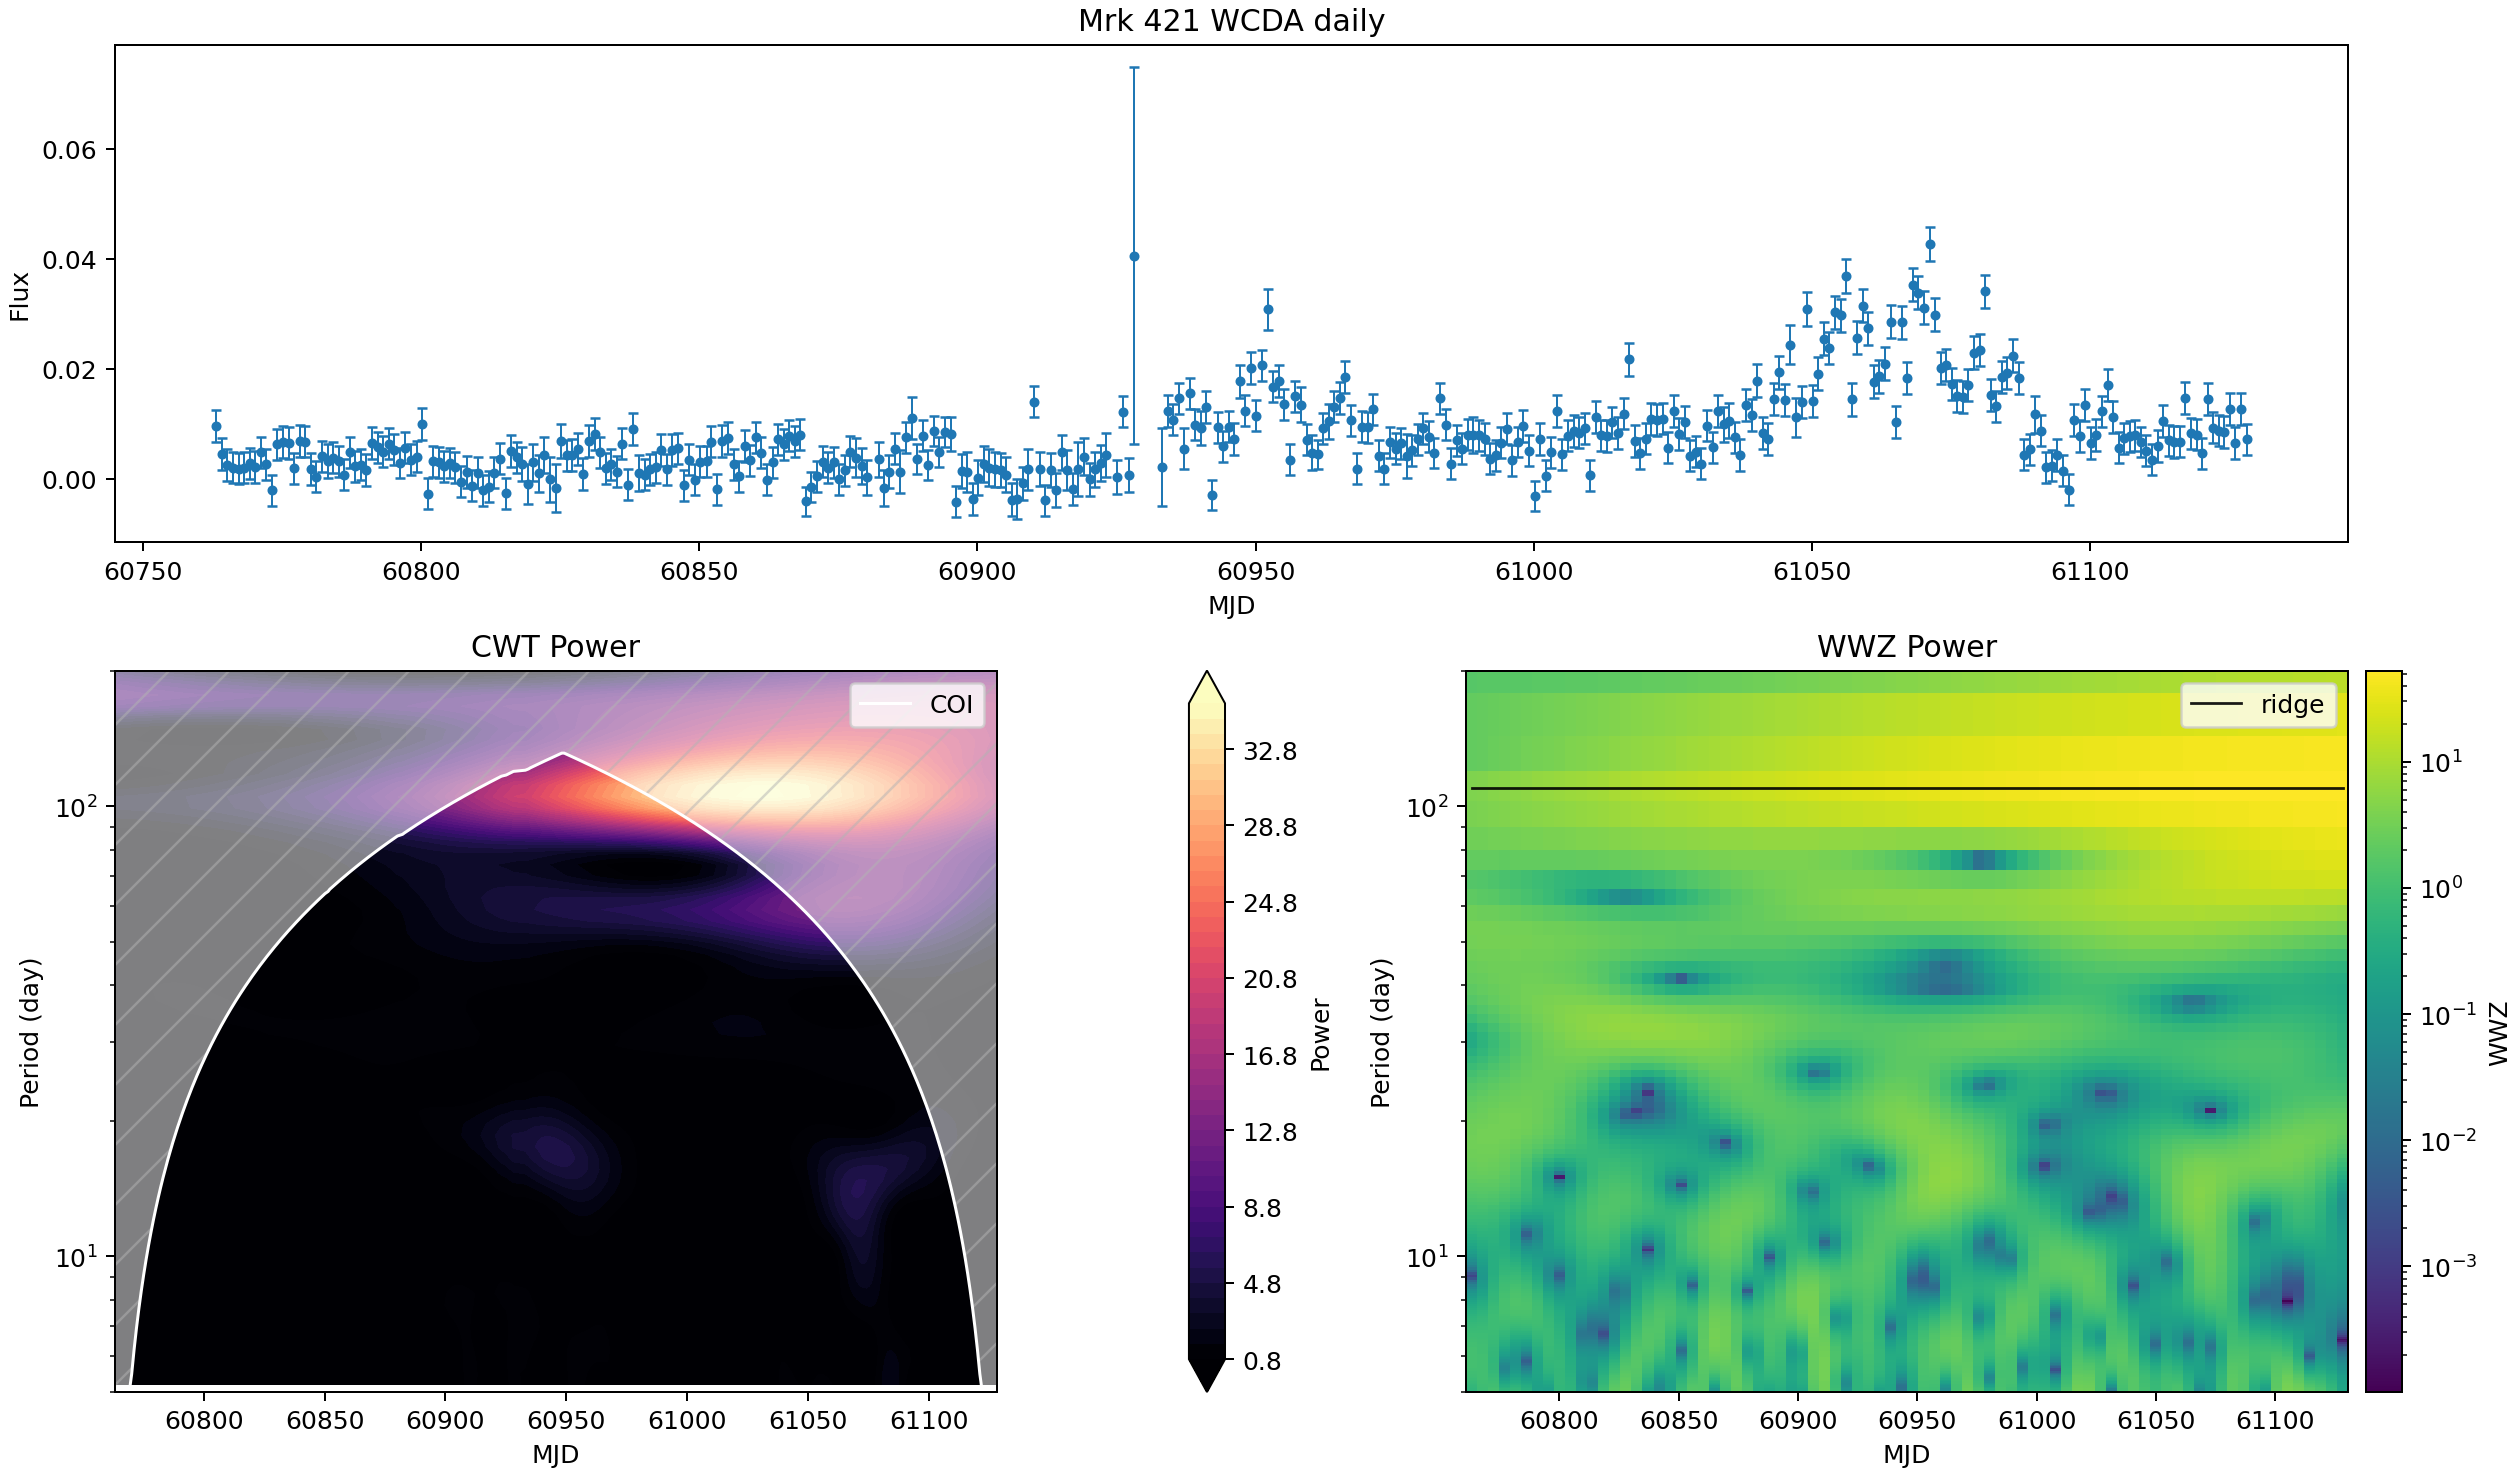
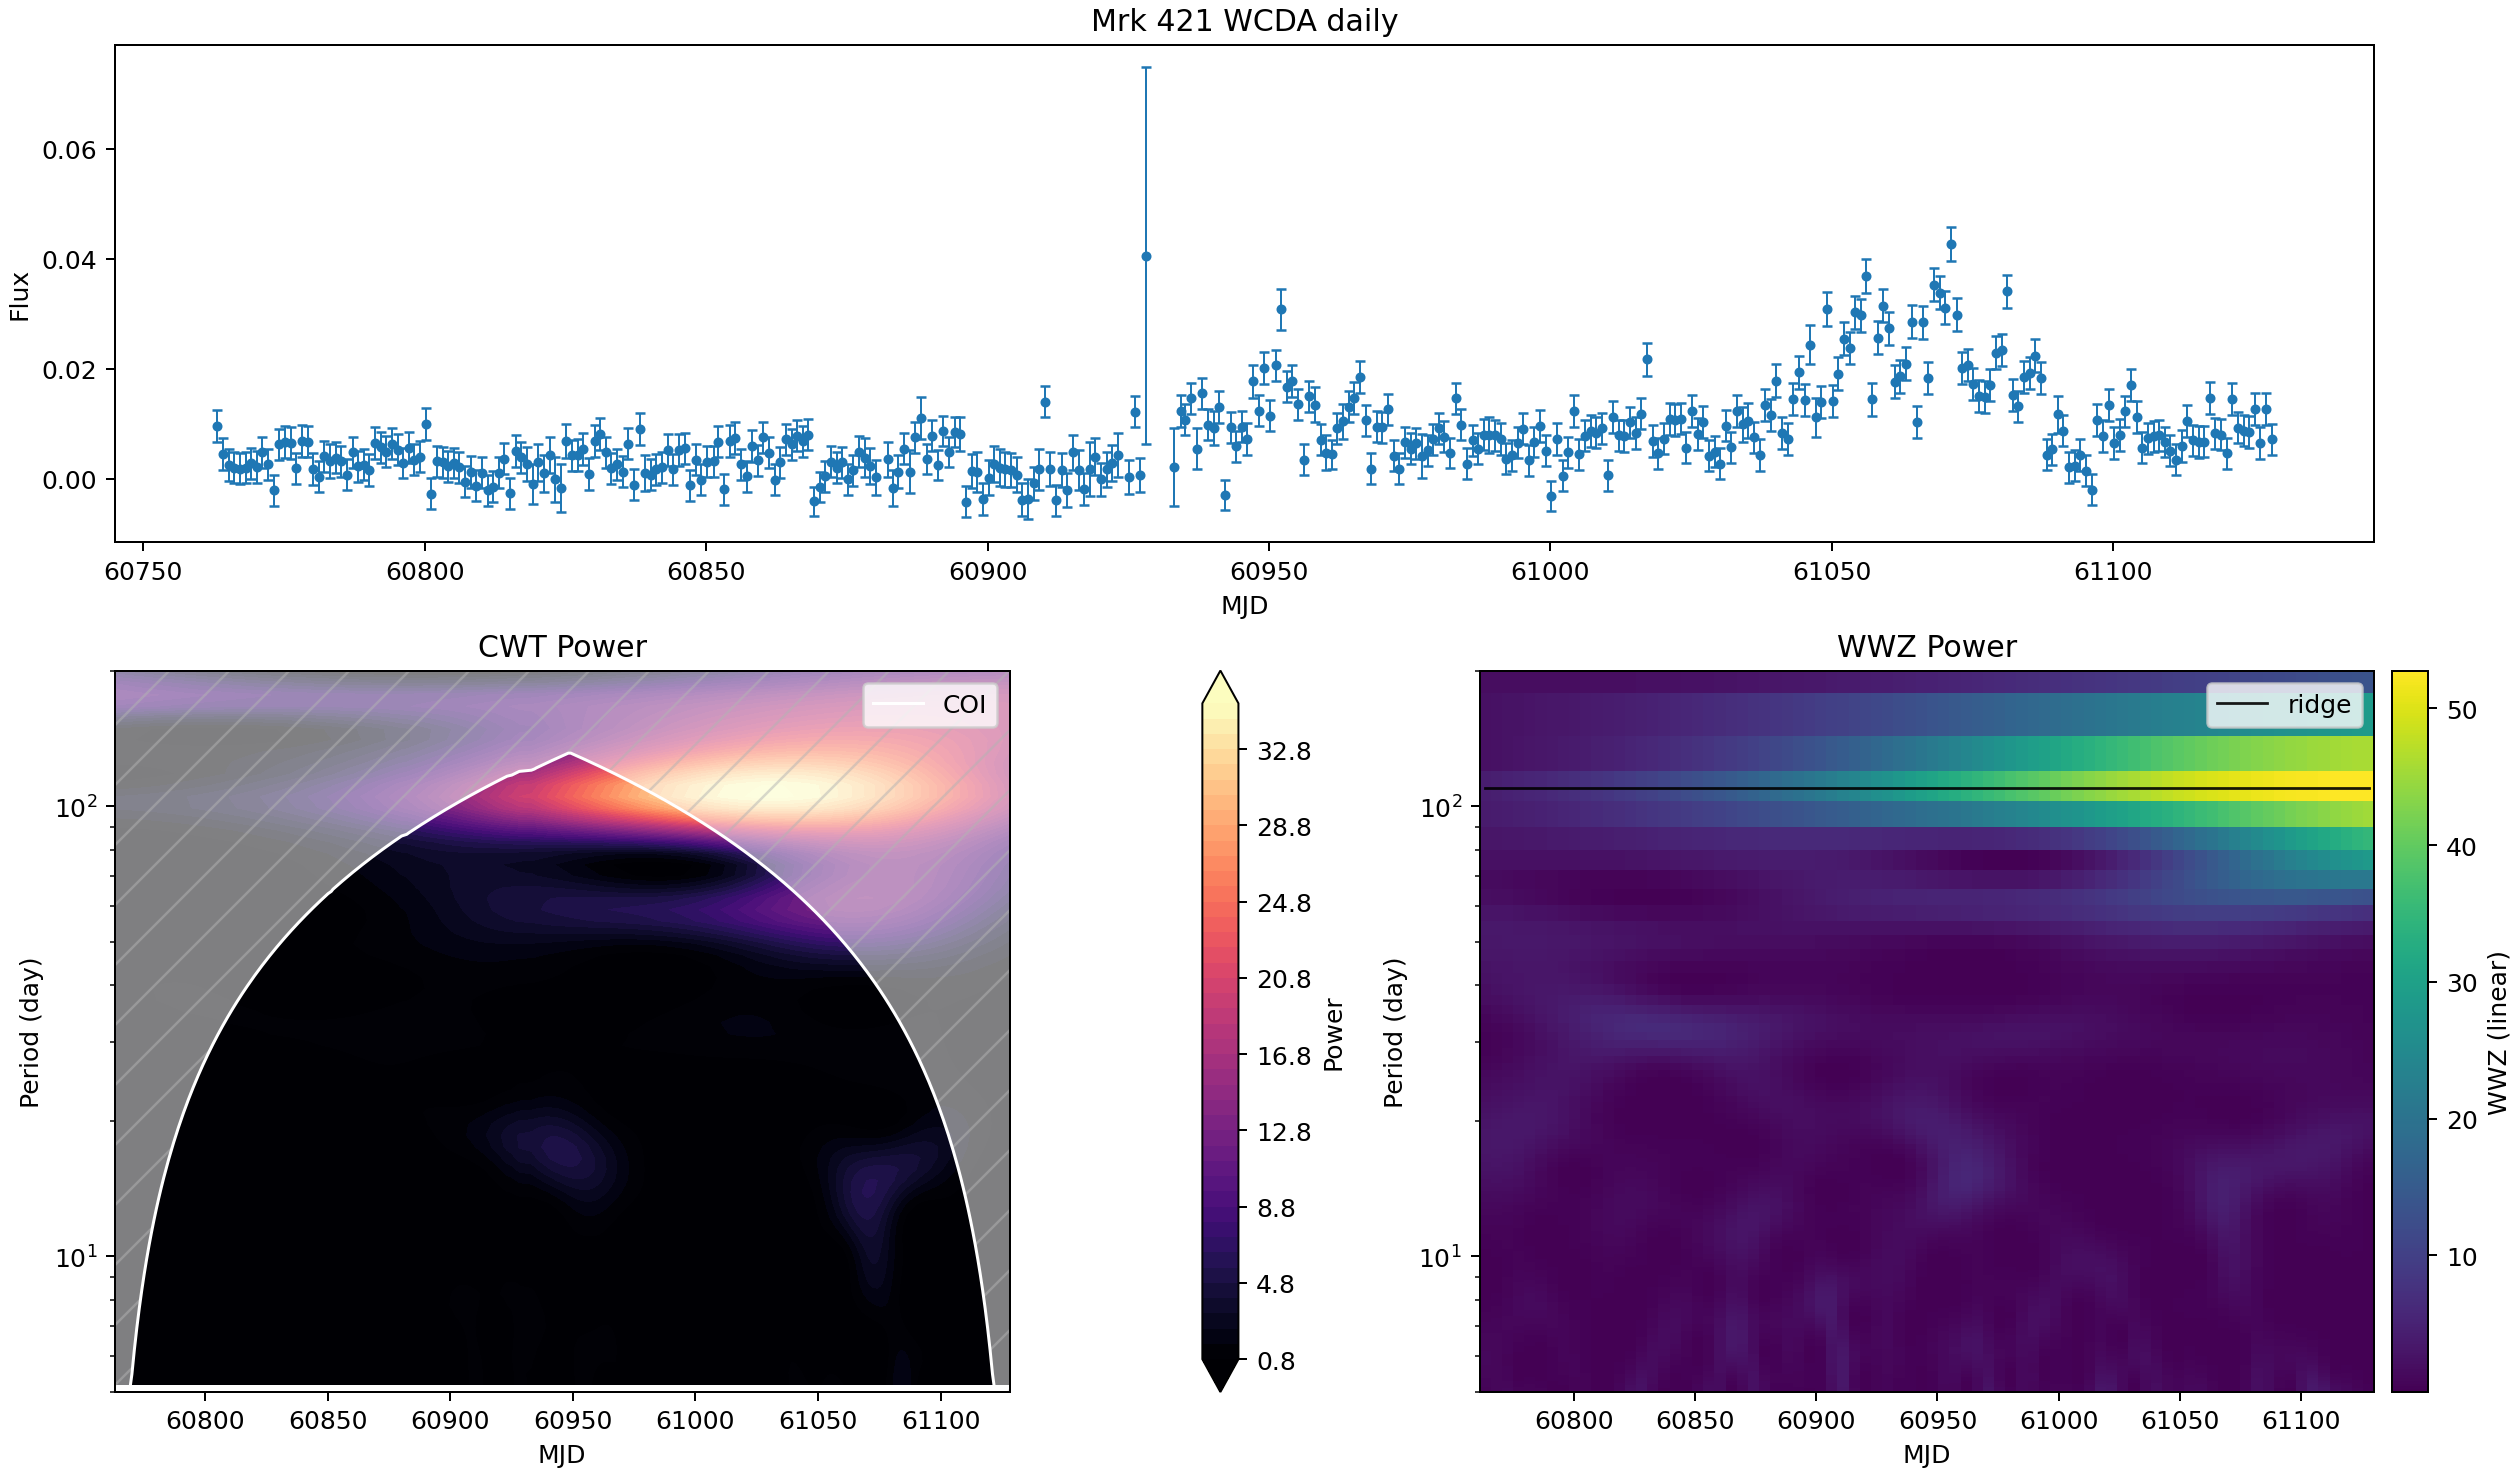
Update QPO WWZ color-scale figures

diff --git a/qpo-periodicity-v1/index.html b/qpo-periodicity-v1/index.html
@@ -154,7 +154,7 @@
 
     <h2>方法</h2>
     <p>WCDA flux 使用 excess rate 表示：<code>sum(n_on - n_bkg) / tobs</code>，误差使用逐 hit bin 传播的 Poisson-style on/off 近似。CWT 使用 <code>pycwt</code> 的 Morlet wavelet，WWZ 使用 <code>libwwz</code>，入口脚本为 <code>src/pipeline/periodicity_v1.py</code>。</p>
-    <p>双源 WCDA weekly 主图现在使用线性 WWZ heatmap 色标；之前的 log-color 版本保留在折叠对照图中。周期轴仍保持 log scale，WWZ 峰值搜索仍使用保存的线性 power 数值。</p>
+    <p>xgm poster 复现章节之后的常规周期性分析主图现在使用线性 WWZ heatmap 色标；之前的 log-color 版本保留在折叠对照图中。周期轴仍保持 log scale，WWZ 峰值搜索仍使用保存的线性 power 数值。</p>
     <p class="note">当前 v1 不包含 red-noise simulations、Monte Carlo thresholds、local significance contours、pre-trial significance 或 post-trial significance。</p>
 
     <h2>峰值摘要</h2>
@@ -195,7 +195,11 @@
     <h2>Mrk 421 图像</h2>
     <h3>WCDA daily</h3>
     <p class="meta">时间覆盖：2025-03-29 04:00 UTC 至 2026-03-29 04:00 UTC。</p>
-    <figure><img src="assets/mkn421/wcda_daily_periodicity.png" alt="Mrk 421 WCDA daily light curve, CWT, and WWZ"><figcaption>第一行单独显示光变曲线，第二行左侧为 CWT，右侧为 WWZ。</figcaption></figure>
+    <figure><img src="assets/mkn421/wcda_daily_periodicity.png" alt="Mrk 421 WCDA daily light curve, CWT, and linear-color WWZ"><figcaption>主图使用线性 WWZ heatmap 色标；周期轴仍保持 log scale。</figcaption></figure>
+    <details>
+      <summary>展开 Mrk 421 WCDA daily 的 log-color WWZ 对照图</summary>
+      <figure><img src="assets/mkn421/wcda_daily_periodicity_logcolor.png" alt="Mrk 421 WCDA daily log-color WWZ comparison"><figcaption>之前的 log-color WWZ 渲染，仅用于视觉对照。</figcaption></figure>
+    </details>
     <p class="result-note">Quick-look peaks：N=360，MJD 60763.167-61128.167，median cadence 1.000 d。CWT peak 为 104.95 d，GWS=19.650；WWZ mean-power peak 为 109.77 d，power=29.772。</p>
     <h3>WCDA weekly</h3>
     <p class="meta">时间覆盖：2021-03-11 07:59 UTC 至 2026-03-26 04:00 UTC。</p>
@@ -207,7 +211,11 @@
     <p class="result-note">Quick-look peaks：N=264，MJD 59284.333-61125.167，median cadence 7.000 d。CWT peak 为 367.33 d，GWS=4.486；WWZ mean-power peak 为 363.22 d，power=5.177。</p>
     <h3>Fermi weekly on WCDA axis</h3>
     <p class="meta">时间覆盖：2021-03-11 07:59 UTC 至 2026-01-22 04:00 UTC。</p>
-    <figure><img src="assets/mkn421/fermi_weekly_on_wcda_axis_periodicity.png" alt="Mrk 421 Fermi weekly light curve, CWT, and WWZ"><figcaption>第一行单独显示光变曲线，第二行左侧为 CWT，右侧为 WWZ。</figcaption></figure>
+    <figure><img src="assets/mkn421/fermi_weekly_on_wcda_axis_periodicity.png" alt="Mrk 421 Fermi weekly light curve, CWT, and linear-color WWZ"><figcaption>主图使用线性 WWZ heatmap 色标；周期轴仍保持 log scale。</figcaption></figure>
+    <details>
+      <summary>展开 Mrk 421 Fermi weekly on WCDA axis 的 log-color WWZ 对照图</summary>
+      <figure><img src="assets/mkn421/fermi_weekly_on_wcda_axis_periodicity_logcolor.png" alt="Mrk 421 Fermi weekly on WCDA axis log-color WWZ comparison"><figcaption>之前的 log-color WWZ 渲染，仅用于视觉对照。</figcaption></figure>
+    </details>
     <p class="result-note">Quick-look peaks：N=250，MJD 59284.333-61062.167，median cadence 7.000 d。CWT peak 为 583.10 d，GWS=2.828；WWZ mean-power peak 为 513.37 d，power=3.260。</p>
 
     <h2>Mrk 501 图像</h2>
@@ -237,7 +245,7 @@
 
     <h2>Methods</h2>
     <p>WCDA flux is represented as an excess rate, <code>sum(n_on - n_bkg) / tobs</code>, with a Poisson-style on/off error approximation propagated per hit bin. CWT uses a Morlet wavelet through <code>pycwt</code>. WWZ uses <code>libwwz</code>, with the v1 quick-look grid saved by <code>src/pipeline/periodicity_v1.py</code>.</p>
-    <p>The two-source WCDA weekly main figures now use linear WWZ heatmap color normalization. The previous log-color versions are retained in folded comparison panels. The period axis remains log-scaled, and the WWZ peak search still uses the saved linear power values.</p>
+    <p>The regular periodicity figures after the xgm poster comparison now use linear WWZ heatmap color normalization in the main display. The previous log-color versions are retained in folded comparison panels. The period axis remains log-scaled, and the WWZ peak search still uses the saved linear power values.</p>
     <p class="note">This v1 report includes no red-noise simulations, Monte Carlo thresholds, local significance contours, pre-trial significance, or post-trial significance.</p>
 
     <h2>Peak Summary</h2>
@@ -278,7 +286,11 @@
     <h2>Mrk 421 Figures</h2>
     <h3>WCDA daily</h3>
     <p class="meta">Time coverage: 2025-03-29 04:00 UTC to 2026-03-29 04:00 UTC.</p>
-    <figure><img src="assets/mkn421/wcda_daily_periodicity.png" alt="Mrk 421 WCDA daily light curve, CWT, and WWZ"><figcaption>The first row shows only the light curve; the second row separates CWT on the left and WWZ on the right.</figcaption></figure>
+    <figure><img src="assets/mkn421/wcda_daily_periodicity.png" alt="Mrk 421 WCDA daily light curve, CWT, and linear-color WWZ"><figcaption>Main display uses linear WWZ heatmap color normalization; the period axis remains log-scaled.</figcaption></figure>
+    <details>
+      <summary>Show log-color WWZ comparison for Mrk 421 WCDA daily</summary>
+      <figure><img src="assets/mkn421/wcda_daily_periodicity_logcolor.png" alt="Mrk 421 WCDA daily log-color WWZ comparison"><figcaption>Previous log-color WWZ rendering kept for visual comparison only.</figcaption></figure>
+    </details>
     <p class="result-note">Quick-look peaks: N=360, MJD 60763.167-61128.167, median cadence 1.000 d. CWT peak is 104.95 d with GWS 19.650; WWZ mean-power peak is 109.77 d with power 29.772.</p>
     <h3>WCDA weekly</h3>
     <p class="meta">Time coverage: 2021-03-11 07:59 UTC to 2026-03-26 04:00 UTC.</p>
@@ -290,7 +302,11 @@
     <p class="result-note">Quick-look peaks: N=264, MJD 59284.333-61125.167, median cadence 7.000 d. CWT peak is 367.33 d with GWS 4.486; WWZ mean-power peak is 363.22 d with power 5.177.</p>
     <h3>Fermi weekly on WCDA axis</h3>
     <p class="meta">Time coverage: 2021-03-11 07:59 UTC to 2026-01-22 04:00 UTC.</p>
-    <figure><img src="assets/mkn421/fermi_weekly_on_wcda_axis_periodicity.png" alt="Mrk 421 Fermi weekly light curve, CWT, and WWZ"><figcaption>The first row shows only the light curve; the second row separates CWT on the left and WWZ on the right.</figcaption></figure>
+    <figure><img src="assets/mkn421/fermi_weekly_on_wcda_axis_periodicity.png" alt="Mrk 421 Fermi weekly light curve, CWT, and linear-color WWZ"><figcaption>Main display uses linear WWZ heatmap color normalization; the period axis remains log-scaled.</figcaption></figure>
+    <details>
+      <summary>Show log-color WWZ comparison for Mrk 421 Fermi weekly on WCDA axis</summary>
+      <figure><img src="assets/mkn421/fermi_weekly_on_wcda_axis_periodicity_logcolor.png" alt="Mrk 421 Fermi weekly on WCDA axis log-color WWZ comparison"><figcaption>Previous log-color WWZ rendering kept for visual comparison only.</figcaption></figure>
+    </details>
     <p class="result-note">Quick-look peaks: N=250, MJD 59284.333-61062.167, median cadence 7.000 d. CWT peak is 583.10 d with GWS 2.828; WWZ mean-power peak is 513.37 d with power 3.260.</p>
 
     <h2>Mrk 501 Figures</h2>

diff --git a/qpo-periodicity-v1/periodicity_v1_report.md b/qpo-periodicity-v1/periodicity_v1_report.md
@@ -1,10 +1,10 @@
 # Mrk 421 / Mrk 501 WCDA Periodicity Analysis v1
 
-Published on GitHub Pages. Report date: 2026-05-21.
+Generated from local pipeline outputs in `data/processed/periodicity/{mkn421,mkn501}/`. Current report date: 2026-05-20.
 
-This report keeps the existing Mrk 421 WCDA/Fermi quick-look periodicity analysis, adds the newly generated Mrk 501 LHAASO-WCDA weekly light curve, and includes an xgm-poster-style Mrk 421 daily WWZ reproduction check. It runs CWT and WWZ checks and intentionally excludes simulation-based significance testing.
+This version keeps the existing Mrk 421 WCDA/Fermi quick-look analysis and adds the newly generated Mrk 501 LHAASO-WCDA weekly light curve. It runs CWT and WWZ checks and intentionally skips simulation-based significance testing.
 
-The updated figures use a clearer layout: the light curve is shown across the first row, while CWT and WWZ maps are separated on the second row. The WCDA weekly main displays now use linear WWZ heatmap color normalization; previous log-color versions are retained as visual references. The period axis remains log-scaled.
+The updated figures use a clearer layout: the light curve is shown across the first row, while CWT and WWZ maps are separated on the second row. In the regular periodicity section after the xgm poster comparison, WWZ main displays now use linear heatmap color normalization; previous log-color versions are retained as visual references. The period axis remains log-scaled.
 
 ## Peak Summary
 
@@ -14,8 +14,6 @@ The updated figures use a clearer layout: the light curve is shown across the fi
 | Mrk 421 | WCDA weekly | 264 | 59284.333 | 61125.167 | 7.000 | 367.33 | 4.486 | 363.22 | 5.177 |
 | Mrk 421 | Fermi weekly on WCDA axis | 250 | 59284.333 | 61062.167 | 7.000 | 583.10 | 2.828 | 513.37 | 3.260 |
 | Mrk 501 | WCDA weekly | 264 | 59284.333 | 61125.167 | 7.000 | 389.17 | 4.407 | 402.98 | 6.385 |
-
-The published HTML page includes Chinese and English views with an in-page language switch.
 
 ## Figure Notes
 
@@ -28,17 +26,30 @@ The published HTML page includes Chinese and English views with an in-page langu
 - Mrk 501 WCDA weekly covers 2021-03-11 07:59 UTC to 2026-03-26 04:00 UTC.
 - Mrk 501 WCDA weekly: CWT peak 389.17 d (GWS 4.407); WWZ peak 402.98 d (power 6.385).
 
+No red-noise simulations, Monte Carlo thresholds, local significance contours, pre-trial significance, or post-trial significance are included in this version.
 
 
-## WCDA Weekly WWZ Color-Scale Comparison
+## Regular WWZ Color-Scale Comparison
 
-Main WCDA weekly figures now use linear WWZ heatmap color normalization:
+Main regular figures now use linear WWZ heatmap color normalization:
+
+![Mrk 421 WCDA daily linear-color WWZ](assets/mkn421/wcda_daily_periodicity.png)
+
+Log-color reference kept for comparison:
+
+![Mrk 421 WCDA daily log-color WWZ](assets/mkn421/wcda_daily_periodicity_logcolor.png)
 
 ![Mrk 421 WCDA weekly linear-color WWZ](assets/mkn421/wcda_weekly_periodicity.png)
 
 Log-color reference kept for comparison:
 
 ![Mrk 421 WCDA weekly log-color WWZ](assets/mkn421/wcda_weekly_periodicity_logcolor.png)
+
+![Mrk 421 Fermi weekly on WCDA axis linear-color WWZ](assets/mkn421/fermi_weekly_on_wcda_axis_periodicity.png)
+
+Log-color reference kept for comparison:
+
+![Mrk 421 Fermi weekly on WCDA axis log-color WWZ](assets/mkn421/fermi_weekly_on_wcda_axis_periodicity_logcolor.png)
 
 ![Mrk 501 WCDA weekly linear-color WWZ](assets/mkn501/wcda_weekly_periodicity.png)
 
